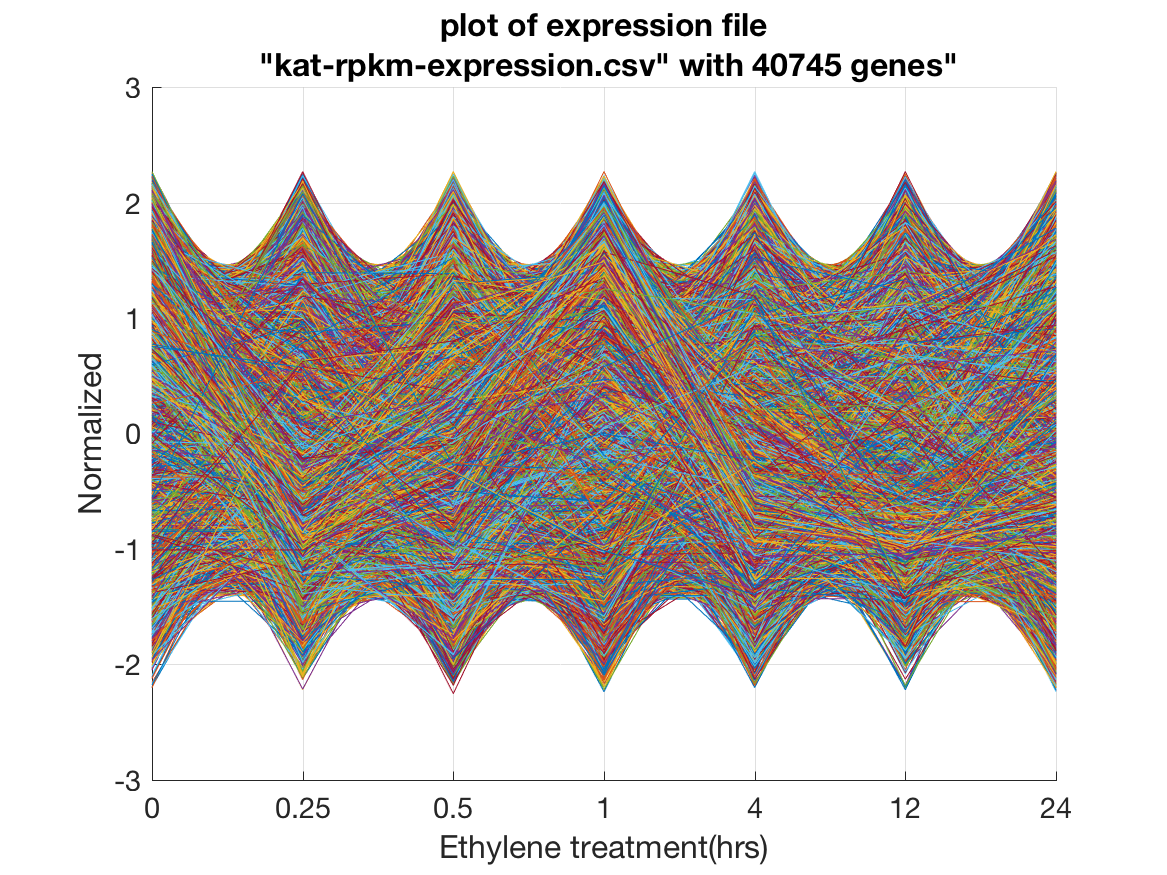
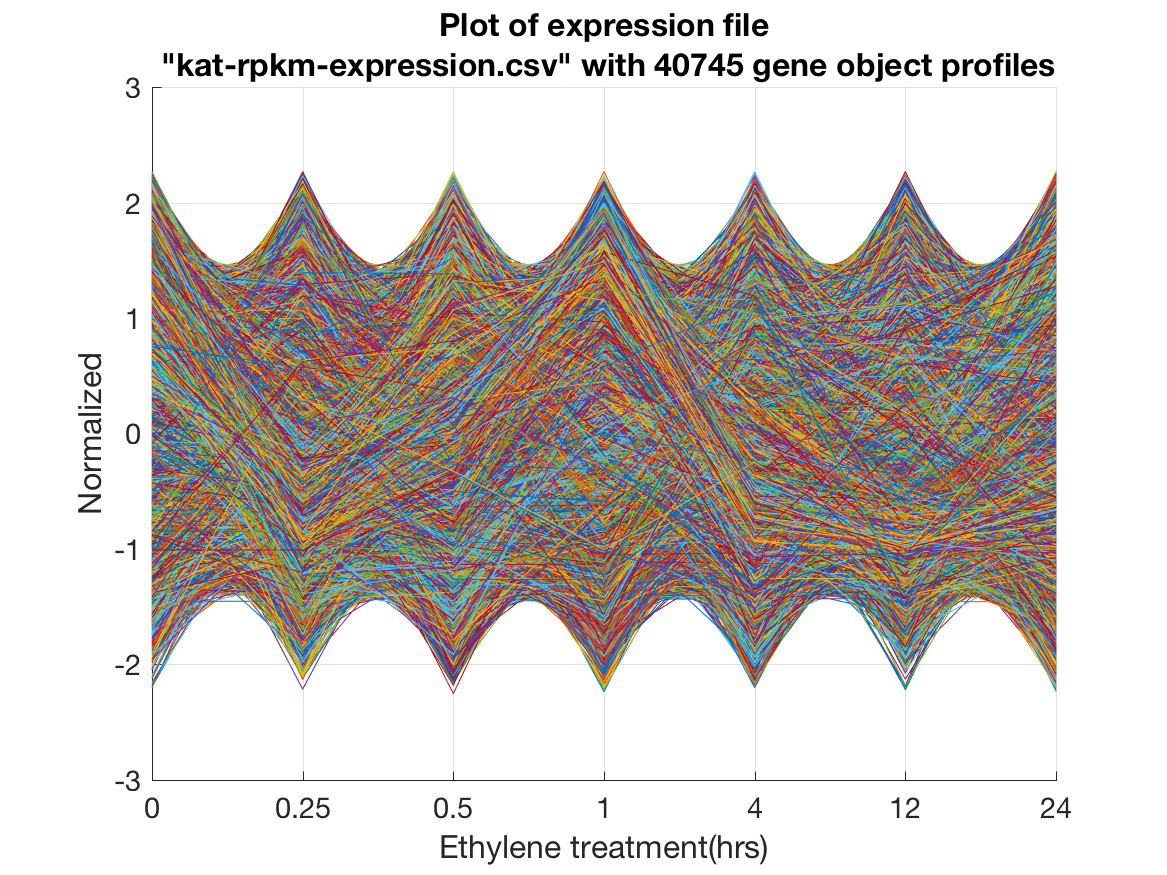
presentation10

Changed region(s): [[0.1234, 0.0, 0.9254, 0.0926]]

diff --git a/f_plotTable3.m b/f_plotTable3.m
@@ -1,5 +1,5 @@
 function [ fig, ngene, expr,plotData, agis, agis_new ] = ...
-    f_plotTable2( csv, transfile, varargin )
+    f_plotTable3( csv, transfile, varargin )
 warning('off')
 % #####################################
 % @PGRP
@@ -51,7 +51,6 @@ end
 
 
 
-fprintf('Preparing ploting\n');
 
 % csv_token = strtok(csv,'.');
 % segments = string(0);
@@ -75,7 +74,6 @@ counter = 0;
 
 %% Read File
 % =========  Read File ===========
-fprintf(sprintf(' Reading file %s...\n',csv))
 if any(strcmp(varargin,'No Variable Name'))
     isVariableNames = 0;
 else
@@ -110,7 +108,6 @@ end
 
 [ngene,~] = size(Data);
 
-fprintf(' Calucating Expression Profiles at each time point...\n')
 expr = [];
 for i = 1:3:21%7 time points; 3 replicates;
     expr = [expr sum(Data(:,i:i+2),2)];
@@ -122,7 +119,6 @@ expr_n_m = expr - repmat(expr_bar,1,7);
 expr_n_mv = expr_n_m./repmat(sqrt(var(expr_n_m,0,2)),1,7);
 
 
-fprintf(' Calucating log ratio expression pattern at each time point...\n')
 tmp = [];
 for i = 2:7
     tmp = [tmp log2( expr(:,i)./expr(:,1) )];
@@ -135,24 +131,20 @@ if nargin == 2
     return
 end
 
-colors =  ['b' 'r' 'k' 'g' 'c' 'y' 'm' 'w' ];
 
 %% Plot
-fprintf(' Preparing for plotting...\n')
 % =========  'Mean Plot' ===========
 if any(strcmp(varargin,'Mean Plot'))
     counter = counter + 1;
-    fprintf(' Calculating mean and visualizing...\n')
 
     %% Plot
     fig{counter} = figure;x = 0 : 1 : 6;
     hold on;axis([0 6 -2 5])
     plot(x, plotData','Color','[.4,.4,.4]');
-    plot(x,mean( plotData),'Color','r','LineWidth',4);
     xticks(0:6)
     xticklabels({'0','0.25','0.5','1','4','12','24'})
     title(sprintf...
-        ( 'Plot of expression file\n "%s" with %d genes"',...
+        ( 'Plot of expression file\n "%s" with %d gene object profiles',...
         csv, ngene))
     xlabel('Ethylene treatment(hrs)');
     ylabel('Expression-log2ratio(reference at 0 hrs)');
@@ -180,7 +172,7 @@ if any(strcmp(varargin,'Normalized'))
     xticks(0:6)
     xticklabels({'0','0.25','0.5','1','4','12','24'})
     title(sprintf...
-        ( 'Plot of expression file\n "%s" with %d genes"',...
+        ( 'Plot of expression file\n "%s" with %d gene object profiles',...
         csv, ngene))
     xlabel('Ethylene treatment(hrs)');
     ylabel('Normalized');
